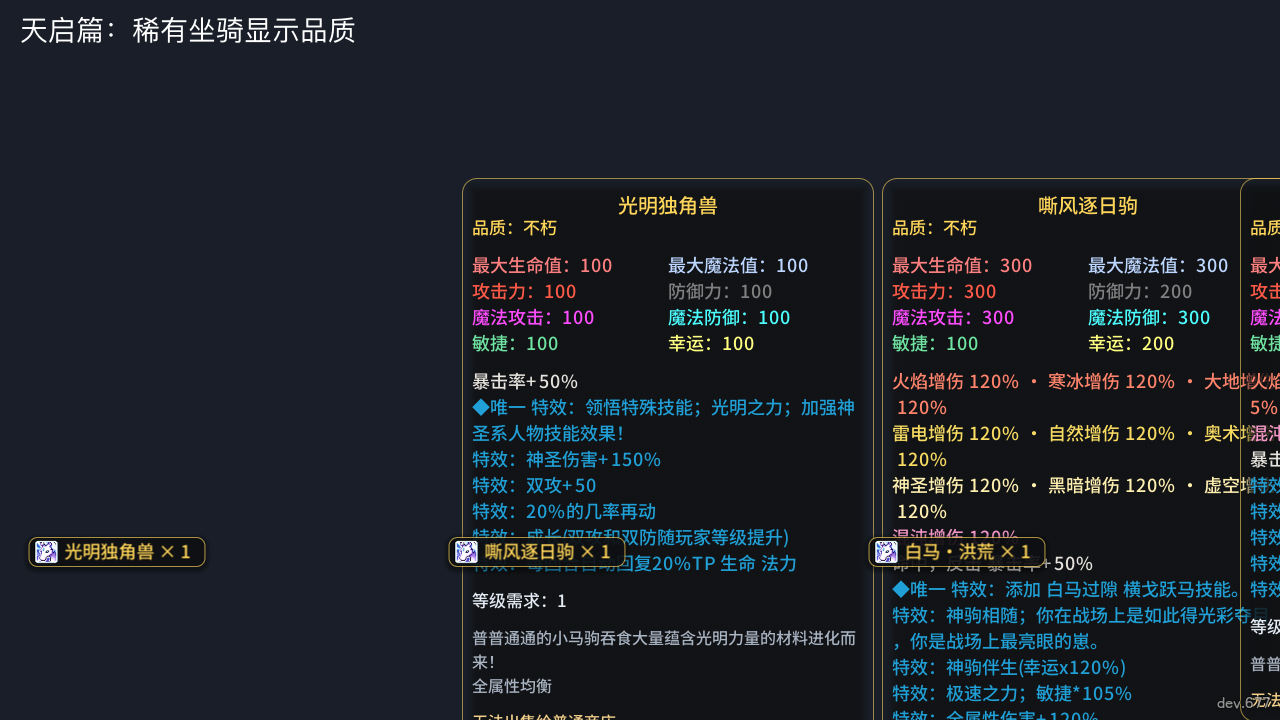
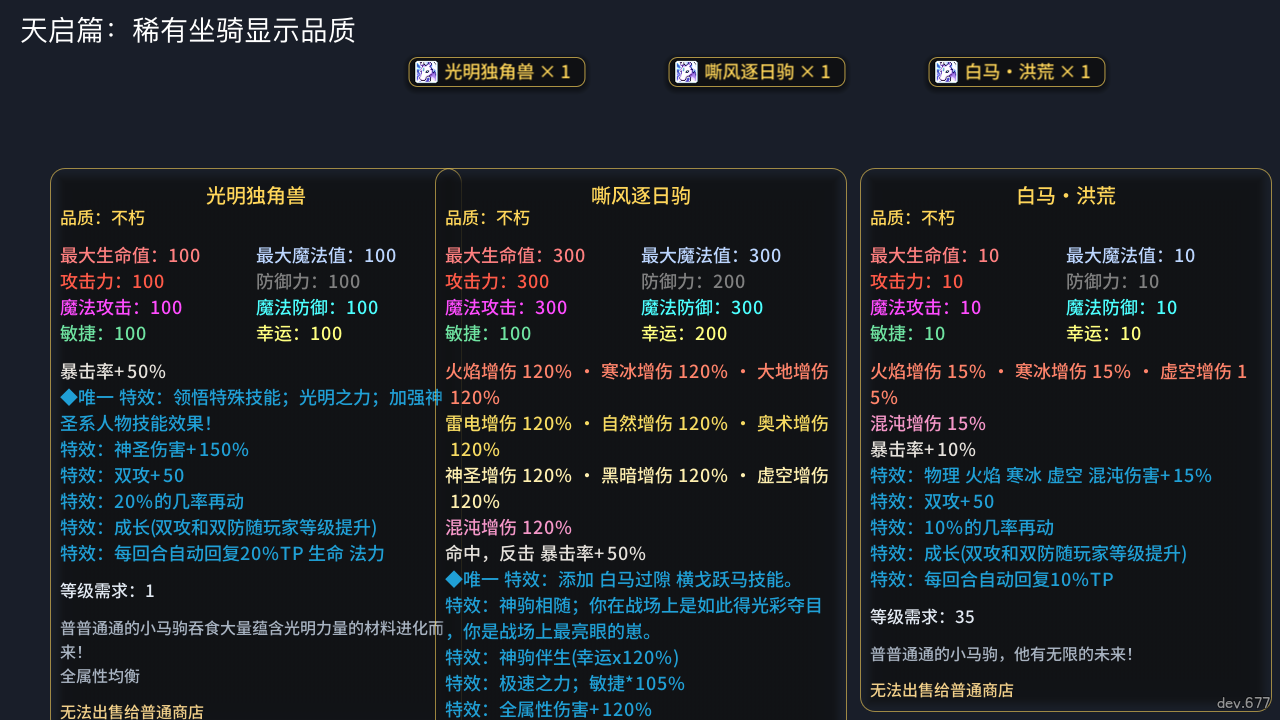
T112：截图重排、全表扫受影响坐骑断言、交付单
执行者: cc
核查: 待审查

diff --git a/00_项目管理/交付/cc_t112-mount-quality.md b/00_项目管理/交付/cc_t112-mount-quality.md
@@ -1,0 +1,47 @@
+# 交付：cc/t112-mount-quality
+
+- 车道／工作者：T112 天启篇稀有坐骑显示品质（cc，Sonnet＋medium 起手，额度续接后 Opus 收尾）
+- 状态：可合并
+
+## 变更记录草稿
+
+## 2026-11-17 【cc·T112·未经审查】天启篇低档稀有坐骑显示品质提到不朽（dev.待定）
+
+- 依据 D160（Kyo 11-16「可以」）。只改显示：`XQuality` 新增 `show_legacy`／`show_grade`／`rare_mount`，`grade_name`、`color_text`（连带 `label`、`list_color`）和说明卡边框（`help_card.gd` `show_for`）改按显示品质；`grade`／`legacy`、掉落门槛、词条档、排序、属性数据一律不动。
+- 口径：天启篇规则开着（`XTianqiDrop.on()`）＋坐骑栏（etypeId 16）＋ T099 的低档稀有装备（`XTianqiDrop.rare_gear`：原版最高掉率低于 `generic.rare_below`、品质不高于 `table_cut_grade`）。全表扫下来正好三匹：
+
+| 坐骑 | id | 原品质（数据） | 天启篇显示 | 原版掉落 |
+| --- | --- | --- | --- | --- |
+| 光明独角兽 | 7997 | 普通（旧档 1） | 不朽（旧档 8） | 剑道争锋巅峰首领 1/700 |
+| 嘶风逐日驹 | 7998 | 普通（旧档 1） | 不朽（旧档 8） | 剑道争锋巅峰首领 1/500 |
+| 白马·洪荒 | 4483 | 普通（旧档 1） | 不朽（旧档 8） | 1/10000 |
+
+- 为什么定「不朽」：同系的嘶风逐日驹·洪荒（1/1000）和 4473 号嘶风逐日驹都是不朽；全部装备里不朽档的掉率中位数约 1/500，三匹的掉率落在这一档或更稀。
+- 西游档（没开天启篇规则）照数据显示「普通」；别的坐骑（如 4472 普通、4473 不朽）不变。
+- 回退：`XQuality.RARE_SHOW = false` 回到数据原品质；`XTianqiDrop.RARE_KEEP = false` 时 `rare_gear` 也不认，显示同样回原样。
+- 测试：`xiyou_tianqi_drop` 新增 `show_affected_exact`（全表只这三匹）、`show_names_tianqi`、`show_color_tianqi`、`show_window_skin`、`show_bag_instance`、`show_logic_grade_unchanged`、`show_stats_unchanged`（记录原样、属性不变）、`show_not_other_mounts`、`show_xiyou_unchanged`、`show_switch_off_restores`；原 `rare_mount_label_original` 断言（天启篇显示普通）按 D160 改掉。102/102 过。
+- 截图工具 `tests/tianqi_mount_quality_shots.tscn`（不是专项，要真窗口、`--audio-driver Dummy`）：[天启篇](cc_t112-mount-quality_shots/天启篇_详情页与获得提示.png)详情页、获得提示都是不朽金色；[西游档](cc_t112-mount-quality_shots/西游档_详情页与获得提示.png)照旧普通白色。
+- 玩家可见：天启篇里光明独角兽、嘶风逐日驹、白马·洪荒的品质显示为「不朽」（名字颜色、说明卡边框、获得提示跟着变），属性不变。
+
+## 交接板
+
+- 下一步：无
+- 用户试玩说明：天启篇拿到光明独角兽／嘶风逐日驹／白马·洪荒，说明卡和获得提示显示「不朽」金色
+- 需要用户决定：无
+
+## 进度账
+
+- 无（天启篇显示调整，不计进度）
+
+## 我不同意的地方
+
+- 无大异议。只提一句：显示是「不朽」但掉落门槛、法宝喂养、自动卖等仍按数据里的「普通」算（派单要求不动逻辑）。比如挂机「屏蔽掉落」门槛设在精良以上时，这三匹仍会被当低档自动卖钱——它们本来就只在原首领表、掉率极低，实际影响小；要不要让逻辑也跟显示走，留给 Kyo 以后定。
+
+## 可优化（流程／工具／效率）
+
+- 无
+
+## 本分支提交
+
+- fab605c20 T112：天启篇低档稀有坐骑显示品质提到不朽（XQuality.show_*，RARE_SHOW 可回退）
+- （本提交）截图重排、全表受影响断言、交付单
